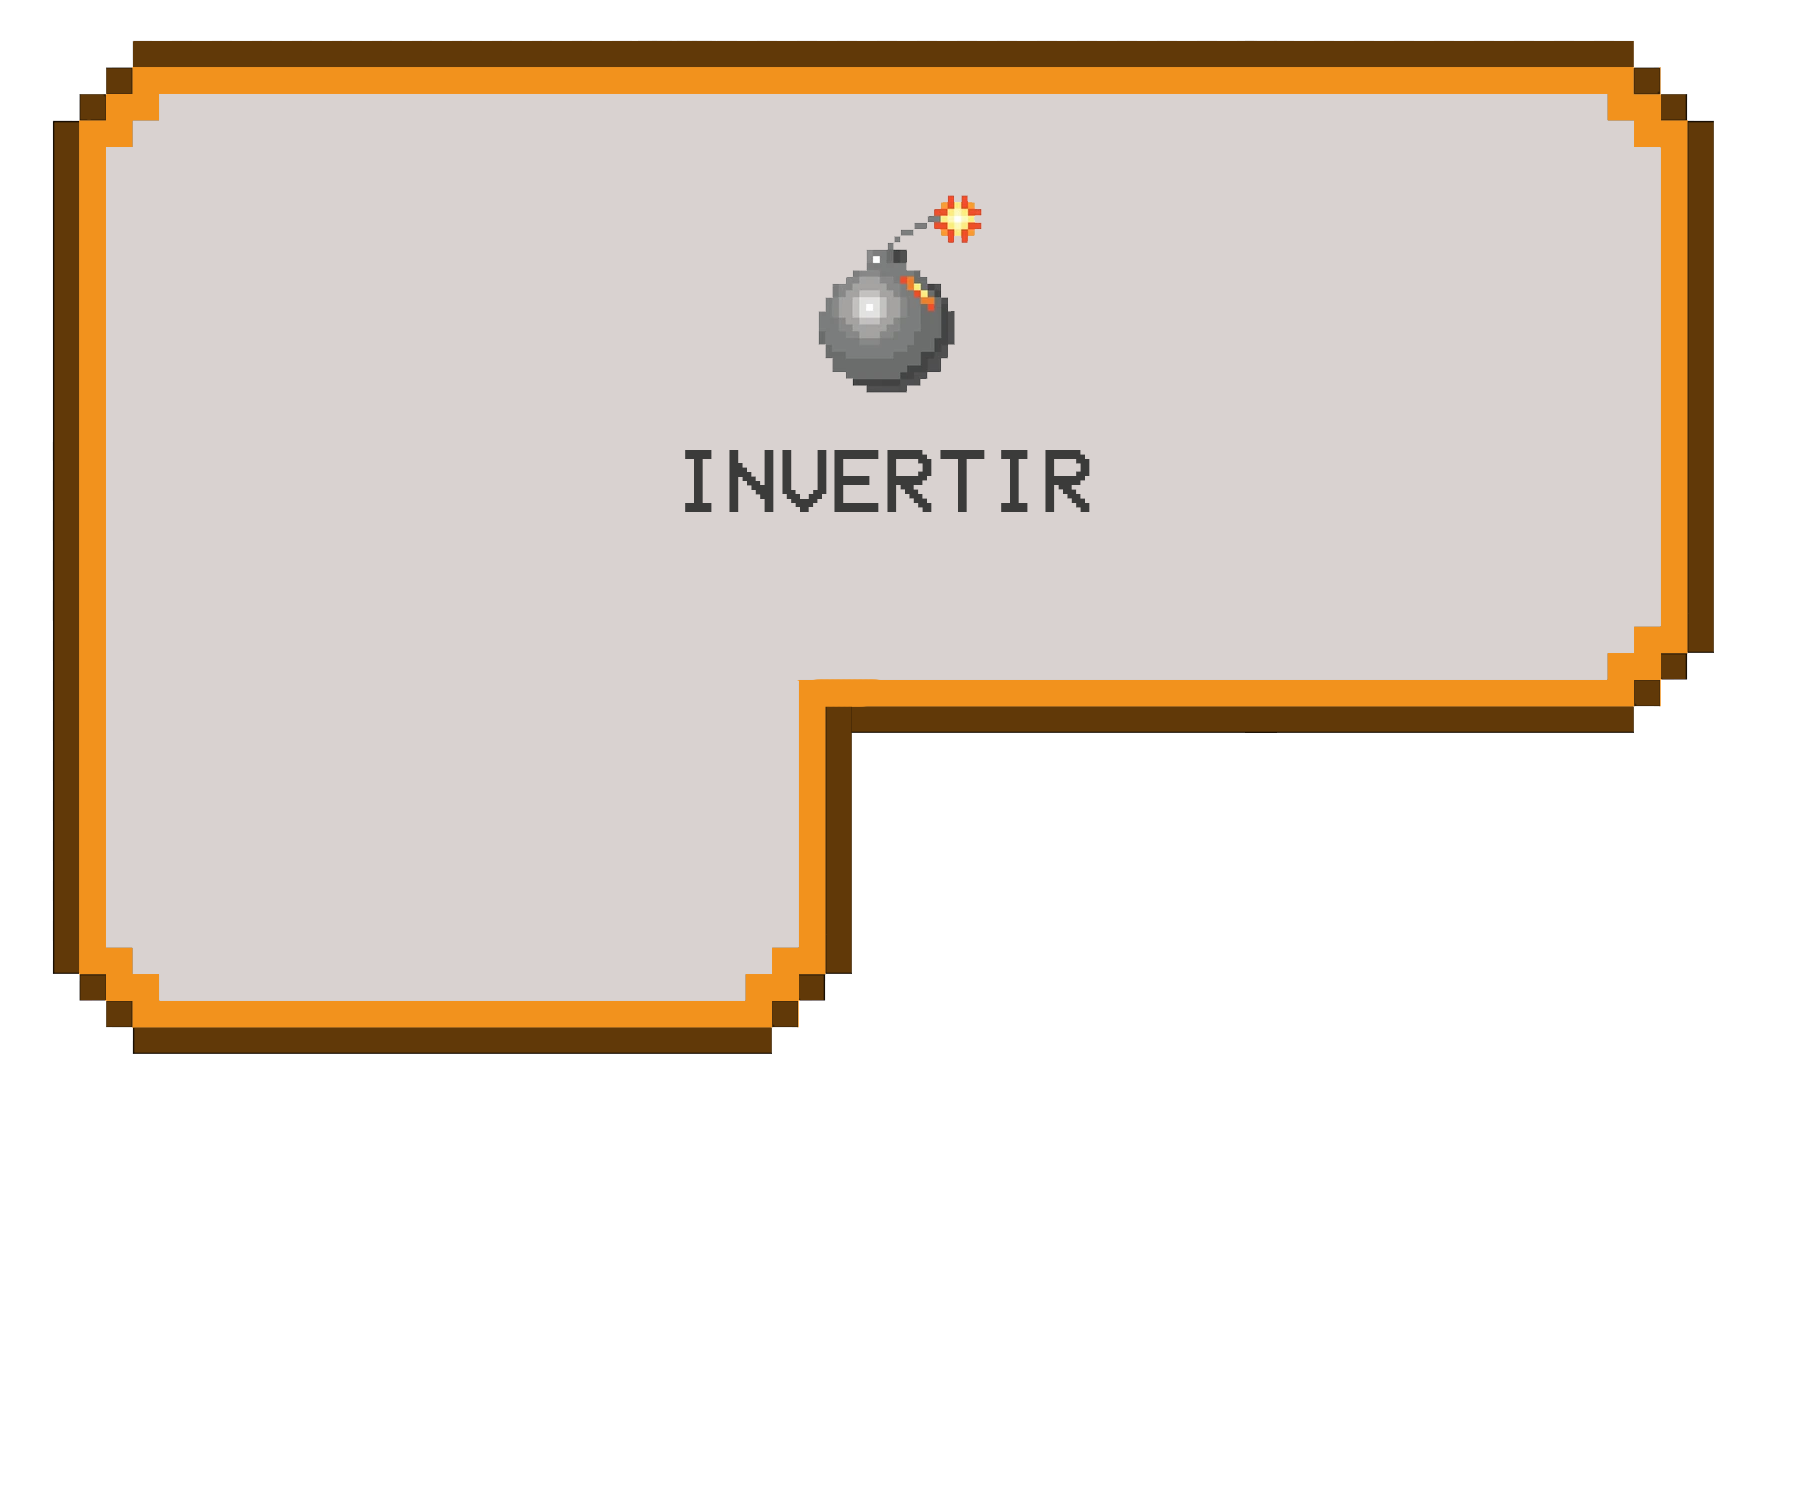
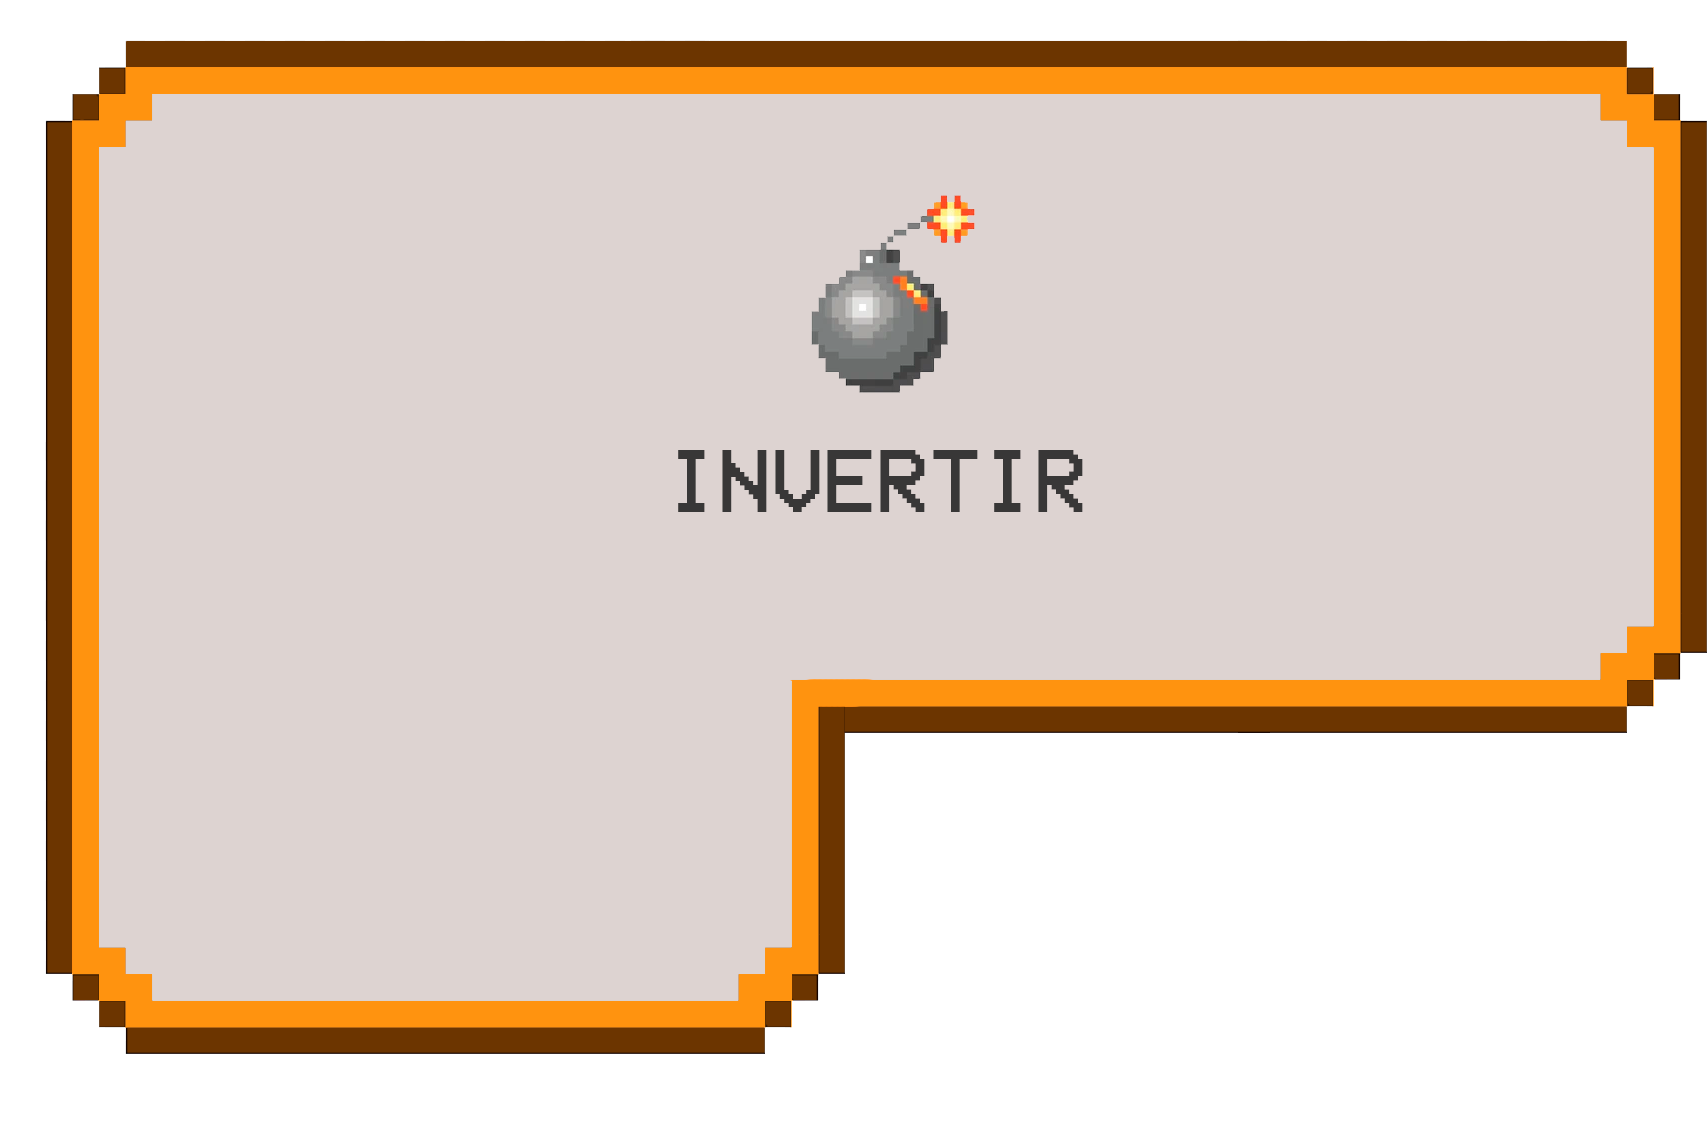
Boton de Invertir, RepetirX2, RepetirX3

diff --git a/src/main/java/edu/fiuba/algo3/resources/style.css b/src/main/java/edu/fiuba/algo3/resources/style.css
@@ -26,7 +26,7 @@
     -fx-background-color: #ad20207a;
 }
 #boton-bloque-personalizado{
-    -fx-background-image: url("imagenes/bloque_grande.png");
+    -fx-image-background: url("imagenes/bloque_grande.png");
     -fx-height: 60%;
     -fx-width: 60%;
 }

diff --git a/src/main/java/edu/fiuba/algo3/vistas/VistaAlgoritmo.java b/src/main/java/edu/fiuba/algo3/vistas/VistaAlgoritmo.java
@@ -7,7 +7,6 @@ import edu.fiuba.algo3.vistas.botones.BotonEjecutarAlgoritmo;
 import edu.fiuba.algo3.vistas.botones.BotonGuardarAlgoritmo;
 import edu.fiuba.algo3.vistas.botones.BotonVaciarAlgoritmo;
 import javafx.geometry.Insets;
-import javafx.scene.control.Button;
 import javafx.scene.layout.*;
 
 public class VistaAlgoritmo extends BorderPane{
@@ -15,27 +14,26 @@ public class VistaAlgoritmo extends BorderPane{
     private ControladorVaciarAlgoritmo controladorVaciarAlgoritmo;
     private ControladorEjecutarAlgoritmo controladorEjecutarAlgoritmo;
     private VBox imagenVBox;
-    private ControladorGuardarAlgoritmo controladorGuardarAlgoritmo;
     private BotonGuardarAlgoritmo botonGuardarAlgoritmo;
 
     public VistaAlgoritmo() {
         this.setTop(new Titulo("Sector de Algoritmos"));
         this.setPadding(new Insets(20));
         imagenVBox = new VBox();
+        imagenVBox.setPrefSize(700,600);
 
     }
 
     public void setControladores(ControladorEjecutarAlgoritmo controladorAlgoritmo, ControladorVaciarAlgoritmo controladorVaciarAlgoritmo, ControladorGuardarAlgoritmo controladorGuardarAlgoritmo){
         this.controladorEjecutarAlgoritmo = controladorAlgoritmo;
         this.controladorVaciarAlgoritmo = controladorVaciarAlgoritmo;
-        this.controladorGuardarAlgoritmo = controladorGuardarAlgoritmo;
         this.botonGuardarAlgoritmo = new BotonGuardarAlgoritmo(controladorGuardarAlgoritmo);
         this.dibujar();
 
     }
 
     private void dibujar(){
-        HBox imagenHBox = new HBox();
+        HBox imagenHBox = new HBox(100);
 
         imagenHBox.getChildren().add(new BotonEjecutarAlgoritmo(controladorEjecutarAlgoritmo));
         imagenHBox.getChildren().add(new BotonVaciarAlgoritmo(controladorVaciarAlgoritmo));
@@ -44,9 +42,7 @@ public class VistaAlgoritmo extends BorderPane{
         this.setCenter(imagenVBox);
     }
 
-    public void update(String nombreBoton){
-        imagenVBox.getChildren().add(new Button(nombreBoton));
-    }
+    public void update(String nombreBoton){imagenVBox.getChildren().add(new Titulo(nombreBoton)); }
 
     public void vaciarVistaAlgoritmo(){
         this.imagenVBox = new VBox();

diff --git a/src/main/java/edu/fiuba/algo3/vistas/VistaBloques.java b/src/main/java/edu/fiuba/algo3/vistas/VistaBloques.java
@@ -1,9 +1,11 @@
 package edu.fiuba.algo3.vistas;
 
+import edu.fiuba.algo3.controladores.bloquesControladores.ControladorBloqueInvertir;
 import edu.fiuba.algo3.controladores.ControladorEjecutarAlgoritmo;
 import edu.fiuba.algo3.controladores.bloquesControladores.*;
 import edu.fiuba.algo3.modelo.Personaje;
 import edu.fiuba.algo3.modelo.bloque.BloquePersonalizado;
+import edu.fiuba.algo3.vistas.botones.bloquesBotones.BotonBloqueInvertir;
 import edu.fiuba.algo3.vistas.botones.bloquesBotones.BotonBloqueDesactivarLapiz;
 import edu.fiuba.algo3.controladores.bloquesControladores.ControladorBloqueDesactivarLapiz;
 import edu.fiuba.algo3.vistas.botones.bloquesBotones.*;
@@ -47,8 +49,9 @@ public class VistaBloques extends BorderPane{
         bloques.getChildren().add(new BotonBloqueMoverIzquierda(new ControladorBloqueMoverIzquierda(controladorEjecutarAlgoritmo)));
         bloques.getChildren().add(new BotonBloqueActivarLapiz(new ControladorBloqueActivarLapiz(controladorEjecutarAlgoritmo)));
         bloques.getChildren().add(new BotonBloqueDesactivarLapiz(new ControladorBloqueDesactivarLapiz(controladorEjecutarAlgoritmo)));
-        //bloques.getChildren().add(new BotonBloquePersonalizado(new ControladorBloquePerzonalizado(controladorEjecutarAlgoritmo)));
-        bloques.getChildren().add(new BotonBloqueRepetir(new ControladorBloqueRepetir(controladorEjecutarAlgoritmo)));
+        bloques.getChildren().add(new BotonBloqueInvertir(new ControladorBloqueInvertir(controladorEjecutarAlgoritmo)));
+        bloques.getChildren().add(new BotonBloqueRepetirX2(new ControladorBloqueRepetirX2(controladorEjecutarAlgoritmo)));
+        bloques.getChildren().add(new BotonBloqueRepetirX3(new ControladorBloqueRepetirX3(controladorEjecutarAlgoritmo)));
 
         this.setCenter(bloquesScroll);
     }

diff --git a/src/main/java/edu/fiuba/algo3/vistas/botones/bloquesBotones/BotonBloqueRepetirX2.java b/src/main/java/edu/fiuba/algo3/vistas/botones/bloquesBotones/BotonBloqueRepetirX2.java
@@ -1,18 +1,18 @@
 package edu.fiuba.algo3.vistas.botones.bloquesBotones;
 
-import edu.fiuba.algo3.controladores.bloquesControladores.ControladorBloqueRepetir;
+import edu.fiuba.algo3.controladores.bloquesControladores.ControladorBloqueRepetirX2;
 import javafx.scene.control.Button;
 import javafx.scene.image.Image;
 import javafx.scene.image.ImageView;
 
-public class BotonBloqueRepetir extends Button {
-    public BotonBloqueRepetir(ControladorBloqueRepetir controladorBloqueRepetir) {
+public class BotonBloqueRepetirX2 extends Button {
+    public BotonBloqueRepetirX2(ControladorBloqueRepetirX2 controladorBloqueRepetirX2) {
         Image bloqueRepetir = new Image("file:" + System.getProperty("user.dir") + "/src/main/java/edu/fiuba/algo3/resources/imagenes/bloque_repetir2.png");
         ImageView view = new ImageView(bloqueRepetir);
         view.setFitHeight(90);
         view.setPreserveRatio(true);
         super.setPrefSize(100,100);
         super.setGraphic(view);
-        super.setOnAction(controladorBloqueRepetir);
+        super.setOnAction(controladorBloqueRepetirX2);
     }
 }

diff --git a/src/main/java/edu/fiuba/algo3/vistas/botones/bloquesBotones/BotonBloquePersonalizado.java b/src/main/java/edu/fiuba/algo3/vistas/botones/bloquesBotones/BotonBloquePersonalizado.java
@@ -2,19 +2,12 @@ package edu.fiuba.algo3.vistas.botones.bloquesBotones;
 
 import edu.fiuba.algo3.controladores.bloquesControladores.ControladorBloquePerzonalizado;
 import javafx.scene.control.Button;
-import javafx.scene.image.Image;
-import javafx.scene.image.ImageView;
-import javafx.scene.layout.*;
 
 public class BotonBloquePersonalizado extends Button {
 
     public BotonBloquePersonalizado(ControladorBloquePerzonalizado controladorBloquePerzonalizado, String nombreDeBloque) {
         super.setText(nombreDeBloque);
-        Image bloquePerzonalizado = new Image("file:" + System.getProperty("user.dir") + "/src/main/java/edu/fiuba/algo3/resources/imagenes/bloque_grande.png");
-        BackgroundImage imagenDeFondo = new BackgroundImage(bloquePerzonalizado, BackgroundRepeat.REPEAT, BackgroundRepeat.REPEAT, BackgroundPosition.DEFAULT, BackgroundSize.DEFAULT);
         super.setPrefSize(100,100);
-        super.setBackground(new Background(imagenDeFondo));
         super.setOnAction(controladorBloquePerzonalizado);
-        super.setId("boton-bloque-personalizado");
     }
 }

diff --git a/src/main/java/edu/fiuba/algo3/vistas/ContenedorPrincipal.java b/src/main/java/edu/fiuba/algo3/vistas/ContenedorPrincipal.java
@@ -2,7 +2,6 @@ package edu.fiuba.algo3.vistas;
 
 import javafx.geometry.Pos;
 import javafx.scene.control.Label;
-import javafx.scene.image.Image;
 import javafx.scene.layout.*;
 import javafx.scene.text.Font;
 import javafx.stage.Stage;
@@ -14,12 +13,9 @@ public class ContenedorPrincipal extends BorderPane {
     GridPane pantallaDeJuego;
 
     public ContenedorPrincipal(Stage stage) {
-        //Image imagen = new Image("file:" + System.getProperty("user.dir") + "/src/main/java/edu/fiuba/algo3/resources/imagenes/background5.jpg");
-        //BackgroundImage imagenDeFondo = new BackgroundImage(imagen, BackgroundRepeat.REPEAT, BackgroundRepeat.REPEAT, BackgroundPosition.DEFAULT, BackgroundSize.DEFAULT);
-        //this.setBackground(new Background(imagenDeFondo));
         this.setEncabezado(stage);
         this.setCentro();
-        }
+    }
 
     private void setEncabezado(Stage stage) {
         VBox encabezado = new VBox();

diff --git a/src/main/java/edu/fiuba/algo3/controladores/bloquesControladores/ControladorBloqueRepetirX2.java b/src/main/java/edu/fiuba/algo3/controladores/bloquesControladores/ControladorBloqueRepetirX2.java
@@ -1,19 +1,20 @@
 package edu.fiuba.algo3.controladores.bloquesControladores;
 
 import edu.fiuba.algo3.controladores.ControladorEjecutarAlgoritmo;
+import edu.fiuba.algo3.modelo.Personaje;
 import javafx.event.ActionEvent;
 import javafx.event.EventHandler;
 
-public class ControladorBloqueRepetir implements EventHandler<ActionEvent> {
+public class ControladorBloqueRepetirX2 implements EventHandler<ActionEvent> {
 
     private final ControladorEjecutarAlgoritmo controladorEjecutarAlgoritmo;
 
-    public ControladorBloqueRepetir(ControladorEjecutarAlgoritmo controladorEjecutarAlgoritmo) {
+    public ControladorBloqueRepetirX2(ControladorEjecutarAlgoritmo controladorEjecutarAlgoritmo) {
         this.controladorEjecutarAlgoritmo = controladorEjecutarAlgoritmo;
     }
 
     @Override
     public void handle(ActionEvent actionEvent) {
-
+        ///controladorEjecutarAlgoritmo();
     }
 }

diff --git a/src/main/java/edu/fiuba/algo3/vistas/botones/bloquesBotones/BotonBloqueRepetirX3.java b/src/main/java/edu/fiuba/algo3/vistas/botones/bloquesBotones/BotonBloqueRepetirX3.java
@@ -1,0 +1,20 @@
+package edu.fiuba.algo3.vistas.botones.bloquesBotones;
+
+import edu.fiuba.algo3.controladores.bloquesControladores.ControladorBloqueRepetirX3;
+import javafx.scene.control.Button;
+import javafx.scene.image.Image;
+import javafx.scene.image.ImageView;
+
+
+public class BotonBloqueRepetirX3 extends Button {
+
+    public BotonBloqueRepetirX3(ControladorBloqueRepetirX3 controladorBloqueRepetirX3) {
+        Image bloqueMoverIzquierda = new Image("file:" + System.getProperty("user.dir") + "/src/main/java/edu/fiuba/algo3/resources/imagenes/bloque_repetir3.png");
+        ImageView view = new ImageView(bloqueMoverIzquierda);
+        view.setFitHeight(90);
+        view.setPreserveRatio(true);
+        super.setPrefSize(100,100);
+        super.setGraphic(view);
+        super.setOnAction(controladorBloqueRepetirX3);
+    }
+}

diff --git a/src/main/java/edu/fiuba/algo3/vistas/botones/bloquesBotones/BotonBloqueInvertir.java b/src/main/java/edu/fiuba/algo3/vistas/botones/bloquesBotones/BotonBloqueInvertir.java
@@ -1,0 +1,20 @@
+package edu.fiuba.algo3.vistas.botones.bloquesBotones;
+
+import edu.fiuba.algo3.controladores.bloquesControladores.ControladorBloqueInvertir;
+import javafx.scene.control.Button;
+import javafx.scene.image.Image;
+import javafx.scene.image.ImageView;
+
+public class BotonBloqueInvertir extends Button {
+
+
+    public BotonBloqueInvertir(ControladorBloqueInvertir controladorBloqueInvertir) {
+        Image bloqueActivarLapiz = new Image("file:" + System.getProperty("user.dir") + "/src/main/java/edu/fiuba/algo3/resources/imagenes/bloque_grande_invertir.png");
+        ImageView view = new ImageView(bloqueActivarLapiz);
+        view.setFitHeight(90);
+        view.setPreserveRatio(true);
+        super.setPrefSize(100,100);
+        super.setGraphic(view);
+        super.setOnAction(controladorBloqueInvertir);
+    }
+}

diff --git a/src/main/java/edu/fiuba/algo3/controladores/bloquesControladores/ControladorBloquePerzonalizado.java b/src/main/java/edu/fiuba/algo3/controladores/bloquesControladores/ControladorBloquePerzonalizado.java
@@ -3,7 +3,6 @@ package edu.fiuba.algo3.controladores.bloquesControladores;
 import edu.fiuba.algo3.controladores.ControladorEjecutarAlgoritmo;
 import edu.fiuba.algo3.modelo.Personaje;
 import edu.fiuba.algo3.modelo.bloque.BloquePersonalizado;
-import edu.fiuba.algo3.modelo.bloque.bloqueDeMovimiento.BloqueMoverDerecha;
 import javafx.event.ActionEvent;
 import javafx.event.EventHandler;
 
@@ -21,7 +20,6 @@ public class ControladorBloquePerzonalizado implements EventHandler<ActionEvent>
 
     @Override
     public void handle(ActionEvent actionEvent) {
-        
         controladorEjecutarAlgoritmo.agregarBloque(bloquePersonalizado);
         controladorEjecutarAlgoritmo.updateVistaAlgortimo("Bloque Personalizado: "+bloquePersonalizado.getNombre());
     }

diff --git a/src/main/java/edu/fiuba/algo3/controladores/bloquesControladores/ControladorBloqueRepetirX3.java b/src/main/java/edu/fiuba/algo3/controladores/bloquesControladores/ControladorBloqueRepetirX3.java
@@ -1,0 +1,20 @@
+package edu.fiuba.algo3.controladores.bloquesControladores;
+
+import edu.fiuba.algo3.controladores.ControladorEjecutarAlgoritmo;
+import edu.fiuba.algo3.modelo.Personaje;
+import javafx.event.ActionEvent;
+import javafx.event.EventHandler;
+
+public class ControladorBloqueRepetirX3 implements EventHandler<ActionEvent> {
+
+    private final ControladorEjecutarAlgoritmo controladorEjecutarAlgoritmo;
+
+    public ControladorBloqueRepetirX3(ControladorEjecutarAlgoritmo controladorEjecutarAlgoritmo) {
+        this.controladorEjecutarAlgoritmo = controladorEjecutarAlgoritmo;
+    }
+
+    @Override
+    public void handle(ActionEvent actionEvent) {
+        ///controladorEjecutarAlgoritmo(bloquePersonalizado);
+    }
+}

diff --git a/src/main/java/edu/fiuba/algo3/vistas/VistaJuego.java b/src/main/java/edu/fiuba/algo3/vistas/VistaJuego.java
@@ -7,7 +7,6 @@ import edu.fiuba.algo3.modelo.Personaje;
 import edu.fiuba.algo3.modelo.algortimo.Algoritmo;
 import javafx.scene.layout.GridPane;
 
-
 public class VistaJuego {
 
     private final VistaPersonaje vistaPersonaje;
@@ -18,7 +17,7 @@ public class VistaJuego {
     public VistaJuego() {
         Personaje personaje = new Personaje();
         contenedorTablero = new GridPane();
-        contenedorTablero.setGridLinesVisible(true); // QUITAR AL FINAL
+        contenedorTablero.setGridLinesVisible(true);
         vistaPersonaje = new VistaPersonaje(personaje);
         Algoritmo algoritmo = new Algoritmo();
         vistaAlgoritmo = new VistaAlgoritmo();
